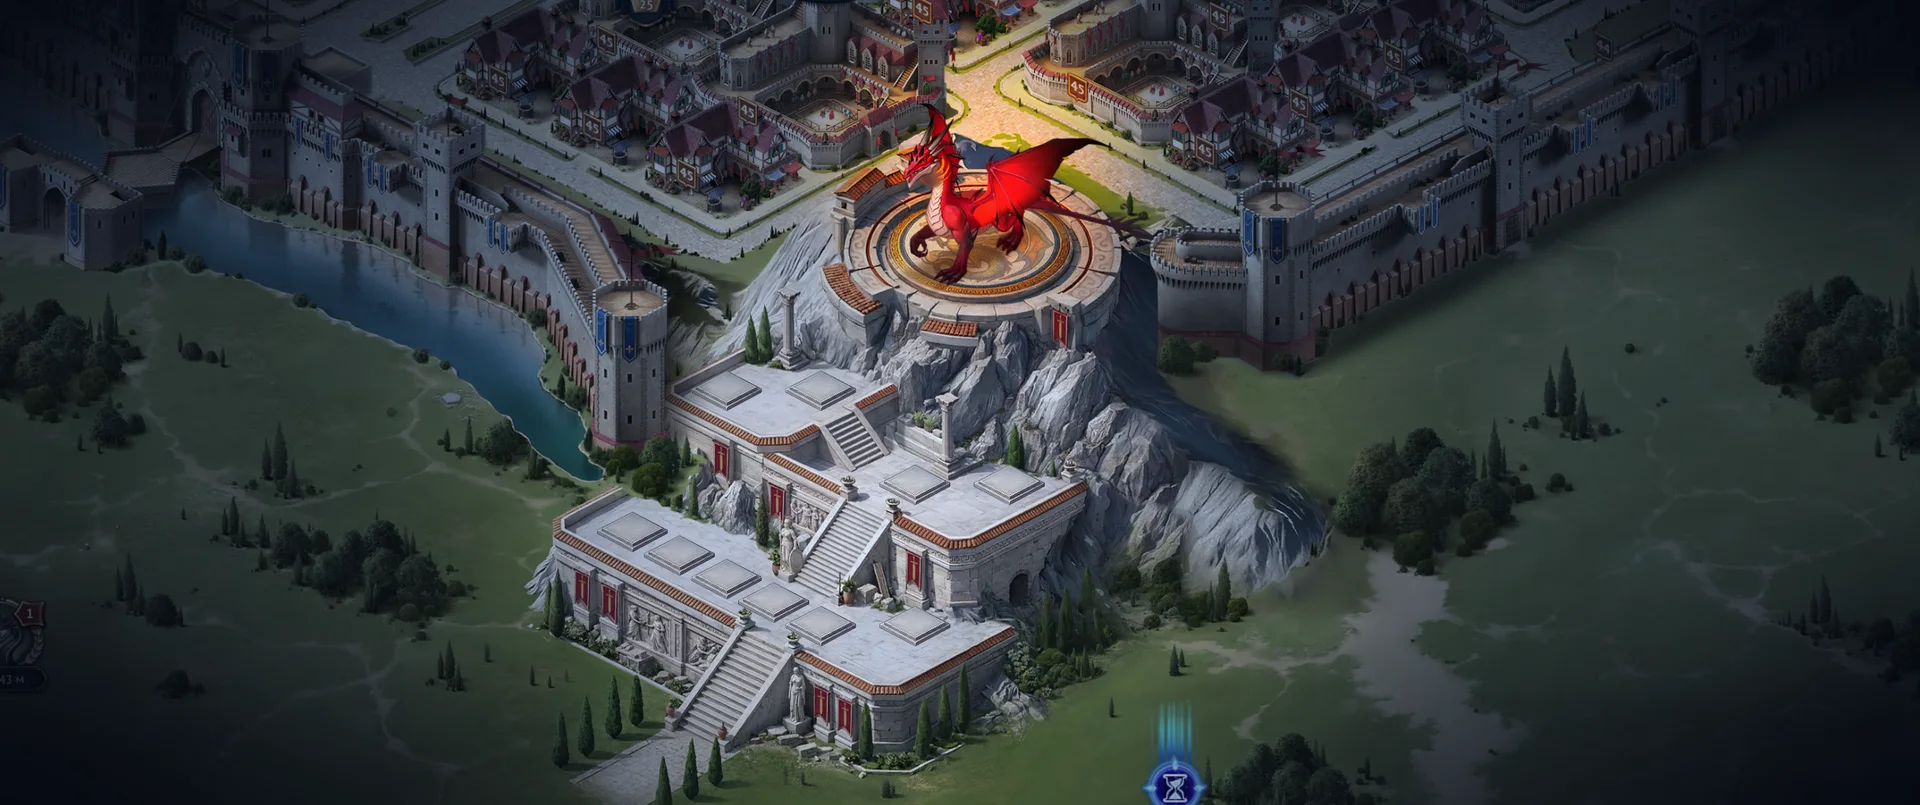
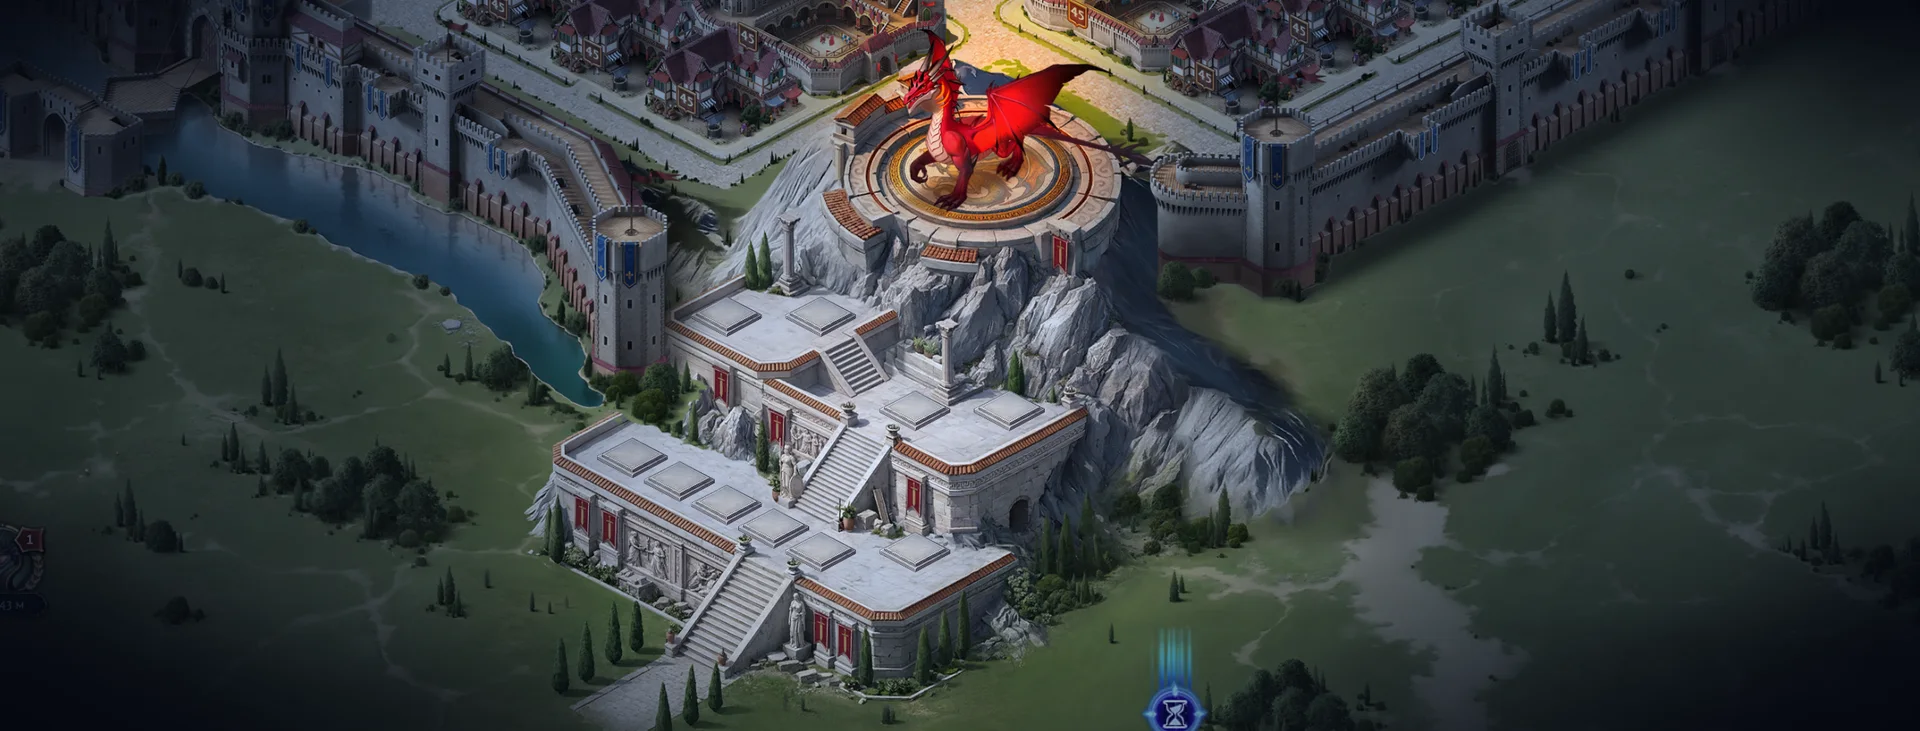
feat(web): лендинг — дракон над заголовком, возможности списком с зелёными галочками
Владелец 2026-09-26: фон шапки обрезан сверху сильнее и прижат к верху — дракон
выше надписей. Возможности — список: зелёная галочка + название + описание, без
иконок и подложки; фон «робот с сундуком» светлее и просматривается, читаемость —
тенью текста.

diff --git a/web/src/pages/LandingPage.jsx b/web/src/pages/LandingPage.jsx
@@ -275,27 +275,30 @@ function FeatureGroupTitle({ children, sub, style }) {
 }
 
 function FeatureGrid({ items }) {
+  // Владелец 2026-09-26: возможности — списком с зелёными галочками, не сеткой карточек.
   return (
-    <div style={{ display: 'grid', gridTemplateColumns: 'repeat(auto-fit, minmax(240px, 1fr))', gap: 20 }}>
-      {items.map(({ icon, color, title, desc }) => (
-        <div key={title} className="card landing-feature-card" style={{
-          borderRadius: 14, padding: 26,
-          background: 'rgba(12,18,34,0.72)', backdropFilter: 'blur(6px)',
-          borderTop: `2px solid ${color}`,
+    <ul style={{
+      // Без подложки: фон (робот с сундуком) должен просматриваться, читаемость — тенью текста.
+      listStyle: 'none', margin: '0 auto', padding: 0, maxWidth: 780,
+      textShadow: '0 1px 3px rgba(0,0,0,0.95), 0 0 12px rgba(0,0,0,0.8)',
+    }}>
+      {items.map(({ title, desc }) => (
+        <li key={title} style={{
+          display: 'flex', gap: 16, alignItems: 'flex-start', padding: '14px 8px',
         }}>
-          <div style={{
-            width: 52, height: 52, borderRadius: 12,
-            background: `${color}14`, border: `1px solid ${color}44`,
+          <span style={{
+            flex: '0 0 30px', width: 30, height: 30, borderRadius: '50%',
+            background: 'rgba(74,222,128,0.14)', border: '1px solid #4ADE80',
             display: 'flex', alignItems: 'center', justifyContent: 'center',
-            fontSize: 26, marginBottom: 18,
-          }}>
-            {icon}
+            fontSize: 17, fontWeight: 900, color: '#4ADE80', marginTop: 1,
+          }}>✓</span>
+          <div>
+            <div style={{ fontSize: 17, fontWeight: 700, color: '#FFFFFF', marginBottom: 4 }}>{title}</div>
+            <div style={{ fontSize: 14, color: '#DCE6F7', lineHeight: 1.65 }}>{desc}</div>
           </div>
-          <h4 style={{ fontSize: 18, fontWeight: 700, color: '#FFFFFF', margin: '0 0 10px' }}>{title}</h4>
-          <p style={{ fontSize: 14, color: '#C8D8F0', lineHeight: 1.7, margin: 0 }}>{desc}</p>
-        </div>
+        </li>
       ))}
-    </div>
+    </ul>
   )
 }
 
@@ -417,7 +420,7 @@ export default function LandingPage() {
           radial-gradient(ellipse 40% 40% at 25% 75%, rgba(176,96,255,0.06) 0%, transparent 60%),
           linear-gradient(rgba(5,8,16,0.25), rgba(5,8,16,0.25)),
           radial-gradient(ellipse 74% 84% at 50% 42%, transparent 0%, var(--bg) 94%),
-          url('/img/hero-bg-tb.webp') center 30% / cover no-repeat,
+          url('/img/hero-bg-tb.webp') center top / cover no-repeat,
           var(--bg)
         `,
         position: 'relative', overflow: 'hidden',
@@ -598,7 +601,7 @@ export default function LandingPage() {
       <section id="features" style={{
         padding: '88px 24px',
         background: `
-          linear-gradient(rgba(5,8,16,0.72), rgba(5,8,16,0.80)),
+          linear-gradient(rgba(5,8,16,0.50), rgba(5,8,16,0.60)),
           url('/img/features-bg.webp') center / cover no-repeat,
           var(--card)
         `,
